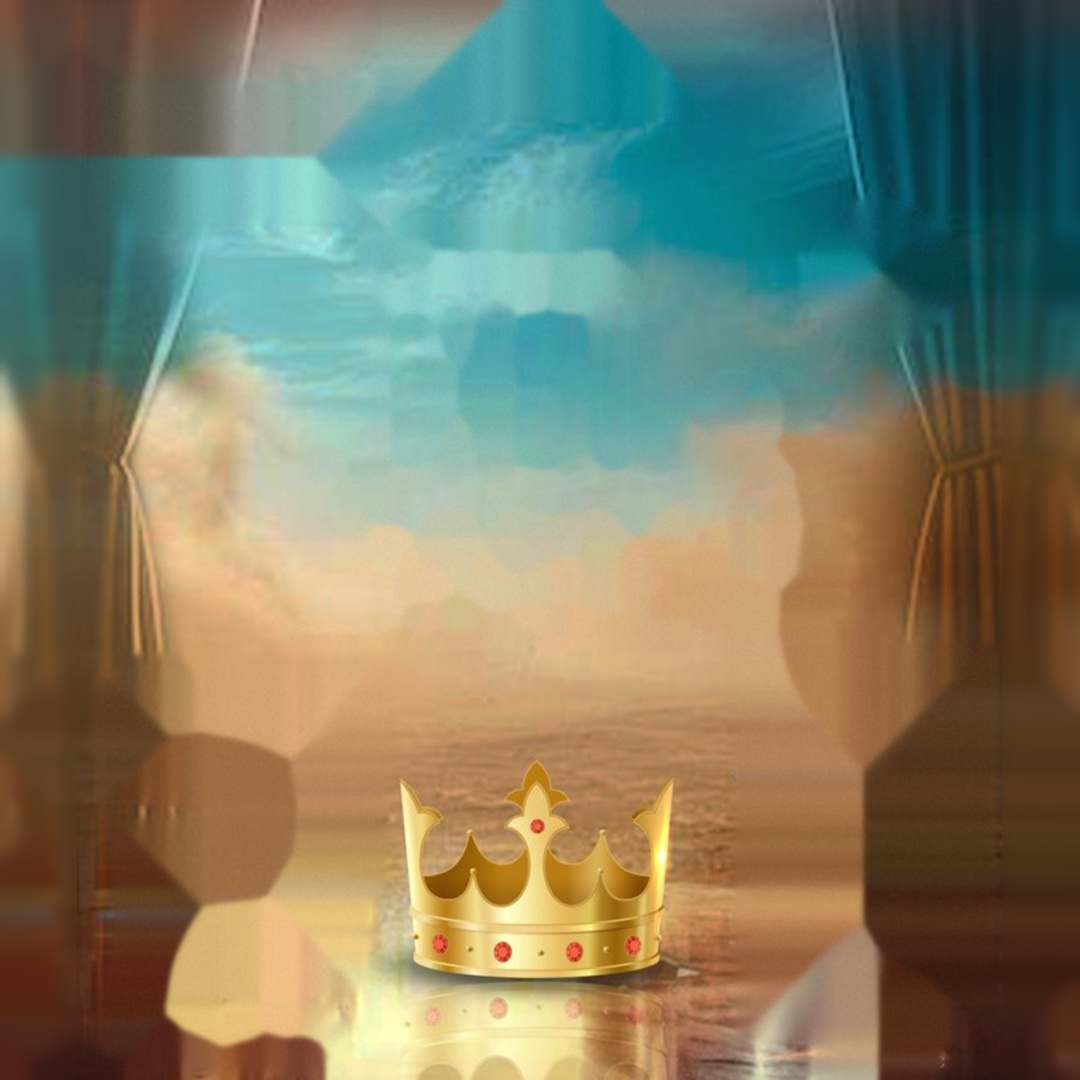
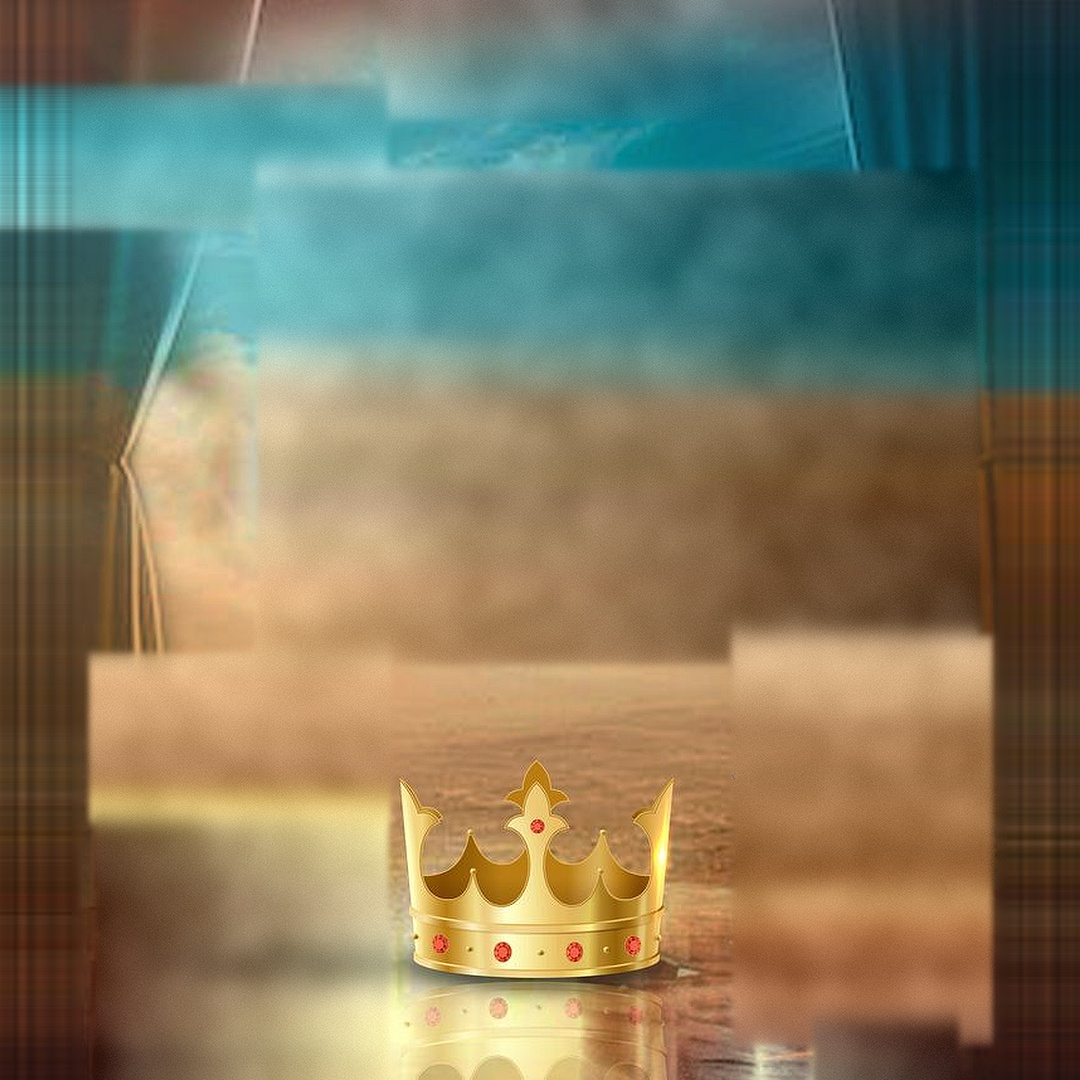
Flyer mini veillée: version fidèle au modèle (tous les éléments) avec décor 3D réaliste
Claude-Session: https://claude.ai/code/session_01K4EnEzfENRyC1oZX6gnyvx

diff --git a/flyer-mini-veillee/index.html b/flyer-mini-veillee/index.html
@@ -1,5 +1,4 @@
-<!doctype html>
-<html lang="fr"><head><meta charset="utf-8"><title>Flyer · Mini veillée · Trône et Gloire</title>
+<!doctype html><html lang="fr"><head><meta charset="utf-8"><title>Flyer · Mini veillée · Trône et Gloire</title>
 <style>
 @font-face{font-family:Bebas;src:url(fonts/bebas-neue-latin-400-normal.woff2)}
 @font-face{font-family:Poppins;font-weight:400;src:url(fonts/poppins-latin-400-normal.woff2)}
@@ -7,148 +6,92 @@
 @font-face{font-family:Poppins;font-weight:600;src:url(fonts/poppins-latin-600-normal.woff2)}
 @font-face{font-family:Poppins;font-weight:700;src:url(fonts/poppins-latin-700-normal.woff2)}
 @font-face{font-family:Poppins;font-weight:800;src:url(fonts/poppins-latin-800-normal.woff2)}
-@font-face{font-family:Montserrat;font-weight:600;src:url(fonts/montserrat-latin-600-normal.woff2)}
-@font-face{font-family:Montserrat;font-weight:700;src:url(fonts/montserrat-latin-700-normal.woff2)}
-:root{--or:#f26522;--or2:#ff8a3d}
+:root{--o1:#ff7d36;--o2:#f0501b;--or:#ee5a24}
 html,body{margin:0;background:#000}
-#f{position:relative;width:1080px;height:1080px;overflow:hidden;font-family:Poppins,sans-serif;color:#fff;background:#0b4f66}
-#bg{position:absolute;left:0;top:0}
-.abs{position:absolute;white-space:nowrap;line-height:1}
-.bebas{font-family:Bebas,Impact,sans-serif;font-weight:400}
-.ora{background:linear-gradient(180deg,var(--or2),var(--or) 55%,#e04e12);box-shadow:0 8px 20px rgba(60,20,0,.4)}
-.shadow{text-shadow:0 4px 18px rgba(0,40,60,.45)}
+#f{position:relative;width:1080px;height:1080px;overflow:hidden;font-family:Poppins,sans-serif;color:#fff;background:#0b4f66 url(assets/stage3d.png) 0 0/1080px 1080px no-repeat}
+#shade{position:absolute;inset:0;background:radial-gradient(ellipse 330px 360px at 545px 420px,rgba(3,62,86,.62) 0%,rgba(3,62,86,.5) 55%,rgba(3,62,86,0) 100%),radial-gradient(ellipse 80% 60% at 50% 48%,rgba(0,30,45,0) 55%,rgba(0,30,45,.35) 100%),linear-gradient(180deg,rgba(0,30,45,.28) 0%,rgba(0,0,0,0) 22%)}
+#m{position:absolute;left:77px;top:0;width:735px;height:858px;transform:scale(1.25874);transform-origin:0 0}
+.a{position:absolute;white-space:nowrap;line-height:1}
+.bebas{font-family:Bebas,Impact,sans-serif}
+.ora{background:linear-gradient(180deg,var(--o1),var(--o2));box-shadow:0 0 14px rgba(255,120,40,.55),0 4px 10px rgba(60,20,0,.35)}
+.ts{text-shadow:0 3px 12px rgba(0,45,65,.75)}
+.wh{background:#fff;box-shadow:0 4px 14px rgba(40,20,0,.35)}
 </style></head><body>
-<div id="f">
-  <canvas id="bg" width="1080" height="1080"></canvas>
+<div id="f"><div id="shade"></div>
+<div id="m">
 
-  <!-- logos -->
-  <div class="abs" style="left:0;width:1080px;top:20px;display:flex;justify-content:center;align-items:center;gap:30px">
-    <div style="position:relative;width:88px;height:90px"><img src="assets/zone_w_a.svg" style="position:absolute;left:0;top:0" width="88" height="90"><img src="assets/zone_w_b.svg" style="position:absolute;left:0;top:0" width="88" height="90"></div>
-    <div style="width:3px;height:84px;background:rgba(255,255,255,.75)"></div>
-    <img src="assets/milmo_white.svg" width="248" height="65">
-  </div>
+  <!-- en-tête : logo ZONE 242 | MILMO -->
+  <div class="a" style="left:259px;top:6px;width:54px;height:70px"><img src="assets/zone_w_a.svg" style="position:absolute;left:0;top:0" width="54" height="55"><img src="assets/zone_w_b.svg" style="position:absolute;left:0;top:0" width="54" height="55"></div>
+  <div class="a" style="left:326px;top:16px;width:2px;height:60px;background:rgba(255,255,255,.85)"></div>
+  <div class="a ts" style="left:341px;top:15px;font-weight:800;font-size:15.4px;line-height:17.2px;letter-spacing:.01em">MISSION<br>INTERNATIONALE<br>LUMIÈRE<br>DU MONDE</div>
 
   <!-- badge MINI VEILLÉE -->
-  <div class="abs" style="left:62px;top:128px;width:314px;height:108px;border:3px solid rgba(255,255,255,.92);border-radius:22px;background:rgba(6,70,88,.5);box-sizing:border-box">
-    <div class="abs ora bebas" style="left:12px;top:12px;width:96px;height:80px;border-radius:14px;font-size:60px;line-height:84px;text-align:center;letter-spacing:.02em">MINI</div>
-    <div class="abs" style="left:122px;top:34px;font-weight:800;font-size:42px;letter-spacing:.01em">VEILLÉE</div>
-  </div>
+  <div class="a" style="left:10px;top:80px;width:218px;height:86px;border:2px solid rgba(255,255,255,.92);border-radius:16px;box-sizing:border-box;background:rgba(5,70,90,.28)"></div>
+  <div class="a ora bebas" style="left:20px;top:90px;width:56px;height:66px;border-radius:10px;font-size:36px;line-height:68px;text-align:center;letter-spacing:.02em">MINI</div>
+  <div class="a" style="left:88px;top:90px;font-weight:700;font-size:15px;color:#ff8a45">Ce vendredi</div>
+  <div class="a" style="left:88px;top:109px;font-weight:800;font-size:25px;letter-spacing:.005em">VEILLÉE</div>
+  <div class="a" style="left:89px;top:138px;font-weight:700;font-size:13.5px;letter-spacing:.04em">À LA ZONE 242</div>
+
+  <!-- rond (comme J1) -->
+  <div class="a" style="left:581px;top:157px;width:104px;height:104px;border-radius:50%;background:#fff;box-shadow:0 6px 16px rgba(0,40,60,.35);text-align:center">
+    <div style="font-weight:700;font-size:13px;color:var(--or);margin-top:22px;letter-spacing:.1em">VEN.</div>
+    <div class="bebas" style="font-size:56px;color:var(--or);margin-top:2px">13</div></div>
 
   <!-- titre -->
-  <div class="abs bebas shadow" id="th" style="left:394px;top:240px;font-size:60px;letter-spacing:.07em">THÈME :</div>
-  <div class="abs bebas shadow" id="t1" style="left:386px;top:273px;font-size:270px;letter-spacing:.005em">TRÔNE</div>
-  <div class="abs bebas shadow" id="t2" style="left:398px;top:494px;font-size:64px;letter-spacing:.06em">ET</div>
-  <div class="abs bebas" id="t3" style="left:394px;top:538px;font-size:178px;letter-spacing:.01em;background:linear-gradient(180deg,#fff3b8 0%,#ffd45a 45%,#f2a31a 100%);-webkit-background-clip:text;background-clip:text;color:transparent;filter:drop-shadow(0 5px 14px rgba(70,30,0,.45))">GLOIRE</div>
+  <div class="a bebas ts" style="left:237px;top:176px;font-size:60px;letter-spacing:.06em">THÈME :</div>
+  <div class="a bebas ts" id="t1" style="left:232px;top:218px;font-size:132px;-webkit-text-stroke:2.4px #fff;letter-spacing:.005em">TRÔNE</div>
+  <div class="a bebas ts" id="t3" style="left:226px;top:358px;font-size:117px;letter-spacing:.01em">GLOIRE</div>
+  <div class="a bebas ts" style="left:240px;top:327px;font-size:36px;letter-spacing:.1em">ET</div>
+  <svg class="a" style="left:486px;top:318px;filter:drop-shadow(0 4px 10px rgba(0,50,70,.6));transform:rotate(-8deg)" width="122" height="104" viewBox="0 0 100 84"><path d="M6 66 L0 14 Q10 30 24 40 Q36 24 50 4 Q64 24 76 40 Q90 30 100 14 L94 66 Z" fill="#fff"/><rect x="5" y="68" width="90" height="13" rx="5" fill="#fff"/><circle cx="50" cy="52" r="5" fill="#ee5a24"/><circle cx="25" cy="52" r="3.6" fill="#ee5a24"/><circle cx="75" cy="52" r="3.6" fill="#ee5a24"/></svg>
 
-  <!-- date / heure (boîte blanche) -->
-  <div class="abs" style="left:92px;top:662px;width:292px;height:150px;border-radius:26px;background:#fff;box-shadow:0 10px 26px rgba(40,20,0,.35)">
-    <div class="abs" style="left:20px;top:22px;font-weight:700;font-size:29px;color:var(--or)">Vendredi</div>
-    <div class="abs" style="left:20px;top:62px;font-weight:800;font-size:70px;color:var(--or);letter-spacing:-.02em">13</div>
-    <div class="abs" style="left:96px;top:74px;font-weight:700;font-size:22px;color:var(--or)">NOV.</div>
-    <div class="abs" style="left:96px;top:100px;font-weight:600;font-size:19px;color:#c9531a">2026</div>
-    <div class="abs" style="left:166px;top:22px;width:2px;height:106px;background:var(--or)"></div>
-    <svg class="abs" style="left:206px;top:30px" width="30" height="30" viewBox="0 0 26 26"><circle cx="13" cy="13" r="10.5" fill="none" stroke="#f26522" stroke-width="3"/><path d="M13 7v6.5l4.5 2.5" stroke="#f26522" stroke-width="3" fill="none" stroke-linecap="round"/></svg>
-    <div class="abs" style="left:176px;top:76px;font-weight:800;font-size:35px;color:var(--or);letter-spacing:-.01em">19H45</div>
-  </div>
+  <!-- verset -->
+  <div class="a wh" style="left:262px;top:469px;width:184px;height:21px;border-radius:5px;text-align:center;font-weight:700;font-size:11.5px;line-height:21px;color:var(--or);letter-spacing:.02em">HÉBREUX 4 : 16</div>
+  <div class="a ts" style="left:0;width:735px;text-align:center;top:495px;font-weight:400;font-size:14.2px;padding-left:20px;box-sizing:border-box">approchons-nous avec assurance du trône de la grâce</div>
 
-  <!-- blocs orange : la Zone / lieu -->
-  <div class="abs ora" style="left:110px;top:828px;width:116px;height:136px;border-radius:14px;text-align:center">
-    <div class="bebas" style="font-size:54px;margin-top:14px;letter-spacing:.04em">ZONE</div>
-    <div class="bebas" style="font-size:96px;margin-top:-2px;letter-spacing:.02em">242</div>
-  </div>
-  <div class="abs" style="left:240px;top:826px;font-weight:700;font-size:26px;letter-spacing:.08em;border-bottom:3px solid #fff;padding-bottom:4px">LIEU</div>
-  <div class="abs ora" style="left:240px;top:874px;width:146px;height:90px;border-radius:14px;text-align:center">
-    <div class="bebas" style="font-size:46px;line-height:90px;letter-spacing:.03em">SIKÈCODJI</div>
-  </div>
-  <div class="abs" style="left:104px;top:976px;width:282px;height:40px;border-radius:12px;background:#fff;box-shadow:0 6px 16px rgba(40,20,0,.35);text-align:center">
-    <div style="font-weight:700;font-size:19px;color:var(--or);line-height:40px">Rue de Golf-FM, Cotonou</div>
-  </div>
+  <!-- boîte date / heure -->
+  <div class="a wh" style="left:20px;top:531px;width:216px;height:108px;border-radius:14px"></div>
+  <div class="a" style="left:31px;top:543px;font-weight:700;font-size:21.5px;color:var(--or)">Vendredi</div>
+  <div class="a" style="left:31px;top:573px;font-weight:800;font-size:46px;color:var(--or);letter-spacing:-.03em">13</div>
+  <div class="a" style="left:88px;top:580px;font-weight:700;font-size:17px;color:var(--or)">nov.</div>
+  <div class="a" style="left:88px;top:600px;font-weight:600;font-size:12px;color:#c9531a">2026</div>
+  <div class="a" style="left:142px;top:545px;width:2px;height:82px;background:var(--or)"></div>
+  <svg class="a" style="left:158px;top:546px" width="19" height="19" viewBox="0 0 26 26"><circle cx="13" cy="13" r="10.5" fill="none" stroke="#ee5a24" stroke-width="3.2"/><path d="M13 7v6.5l4.5 2.5" stroke="#ee5a24" stroke-width="3.2" fill="none" stroke-linecap="round"/></svg>
+  <div class="a" style="left:152px;top:573px;font-weight:800;font-size:24px;color:var(--or);letter-spacing:-.01em">19H45</div>
+  <div class="a" style="left:154px;top:604px;font-weight:600;font-size:9.5px;color:#c9531a;letter-spacing:.06em">À PARTIR DE</div>
 
-  <!-- couronne + reflet -->
-  <svg class="abs" style="left:398px;top:772px" width="276" height="260" viewBox="0 0 280 262">
-    <defs>
-      <linearGradient id="g" x1="0" x2="1" y1="0" y2="0"><stop offset="0" stop-color="#a86d10"/><stop offset=".16" stop-color="#f1cf5e"/><stop offset=".4" stop-color="#fff2b0"/><stop offset=".6" stop-color="#e0a82a"/><stop offset=".85" stop-color="#f3d36a"/><stop offset="1" stop-color="#9c620c"/></linearGradient>
-      <linearGradient id="gv" x1="0" x2="0" y1="0" y2="1"><stop offset="0" stop-color="#fff" stop-opacity=".32"/><stop offset="1" stop-color="#3a1d00" stop-opacity=".28"/></linearGradient>
-      <radialGradient id="ruby"><stop offset="0" stop-color="#ff8c8c"/><stop offset=".55" stop-color="#d4141e"/><stop offset="1" stop-color="#790510"/></radialGradient>
-      <linearGradient id="fade" gradientUnits="userSpaceOnUse" x1="0" x2="0" y1="172" y2="262"><stop offset="0" stop-color="#fff" stop-opacity=".5"/><stop offset="1" stop-color="#fff" stop-opacity="0"/></linearGradient>
-      <mask id="m" maskUnits="userSpaceOnUse" x="0" y="172" width="280" height="90"><rect x="0" y="172" width="280" height="90" fill="url(#fade)"/></mask>
-      <g id="crown">
-        <path d="M14 152 L6 16 C20 80 40 116 72 116 C104 116 118 76 128 40 L140 2 L152 40 C162 76 176 116 208 116 C240 116 260 80 274 16 L266 152 Z" fill="url(#g)"/>
-        <path d="M14 152 L6 16 C20 80 40 116 72 116 C104 116 118 76 128 40 L140 2 L152 40 C162 76 176 116 208 116 C240 116 260 80 274 16 L266 152 Z" fill="url(#gv)"/>
-        <path d="M40 112 C52 124 90 124 106 100 M240 112 C228 124 190 124 174 100" stroke="#8a5a0e" stroke-width="3" fill="none" opacity=".55"/>
-        <circle cx="6" cy="12" r="7" fill="url(#g)"/><circle cx="274" cy="12" r="7" fill="url(#g)"/>
-        <circle cx="140" cy="8" r="8" fill="url(#g)"/><path d="M140 -6v10M135 -1h10" stroke="#fff3b0" stroke-width="3" stroke-linecap="round"/>
-        <rect x="8" y="130" width="264" height="42" rx="10" fill="url(#g)"/><rect x="8" y="130" width="264" height="42" rx="10" fill="url(#gv)"/>
-        <rect x="8" y="130" width="264" height="5" rx="2.5" fill="#fff8d0" opacity=".75"/><rect x="8" y="166" width="264" height="5" rx="2.5" fill="#7a4a08" opacity=".35"/>
-        <circle cx="140" cy="44" r="7" fill="url(#ruby)"/>
-        <circle cx="42" cy="151" r="8" fill="url(#ruby)"/><circle cx="91" cy="151" r="8" fill="url(#ruby)"/><circle cx="140" cy="151" r="8" fill="url(#ruby)"/><circle cx="189" cy="151" r="8" fill="url(#ruby)"/><circle cx="238" cy="151" r="8" fill="url(#ruby)"/>
-      </g>
-    </defs>
-    <g mask="url(#m)"><use href="#crown" transform="translate(0,344) scale(1,-1)"/></g>
-    <use href="#crown"/>
-  </svg>
+  <!-- bloc orange date -->
+  <div class="a ora" style="left:32px;top:655px;width:80px;height:128px;border-radius:7px;text-align:center">
+    <div style="font-weight:700;font-size:12px;margin-top:11px;letter-spacing:.14em">VEN.</div>
+    <div class="bebas" style="font-size:96px;margin-top:14px;line-height:.9">13</div>
+    </div>
+  <div class="a ts" style="left:32px;top:790px;width:80px;text-align:center;font-weight:700;font-size:13px;letter-spacing:.01em">NOVEMBRE</div>
+
+  <!-- lieu -->
+  <div class="a ts" style="left:124px;top:650px;font-weight:700;font-size:21px;letter-spacing:.03em">LIEU</div>
+  <div class="a" style="left:124px;top:676px;width:50px;height:2px;background:rgba(255,255,255,.9)"></div>
+  <div class="a ora" style="left:124px;top:683px;width:104px;height:100px;border-radius:7px;text-align:center">
+    <div style="font-weight:600;font-size:15px;margin-top:17px;letter-spacing:.04em">ZONE 242</div>
+    <div style="font-weight:600;font-size:15px;margin-top:11px;letter-spacing:.02em">SIKÈCODJI</div>
+    <div style="font-weight:600;font-size:15px;margin-top:11px;letter-spacing:.04em">COTONOU</div></div>
+
+  <!-- adresse -->
+  <div class="a wh" style="left:28px;top:815px;width:190px;height:33px;border-radius:9px;text-align:center;font-weight:700;font-size:11.4px;line-height:14px;color:var(--or);padding-top:3px;box-sizing:border-box">Rue de Golf-FM,<br>Sikècodji · Cotonou</div>
 
   <!-- photo de l'apôtre -->
-  <div class="abs" id="ph" style="left:776px;top:648px;width:196px;height:292px;border-radius:26px;background:url(assets/amos_tall.jpg) center top/cover;box-shadow:0 0 0 4px rgba(255,255,255,.8),0 14px 34px rgba(30,15,0,.5)"></div>
-  <div class="abs ora" style="left:776px;top:952px;width:196px;height:62px;border-radius:20px;text-align:center">
-    <div style="font-weight:600;font-size:15px;letter-spacing:.14em;margin-top:9px">APÔTRE</div>
-    <div style="font-weight:800;font-size:25px;margin-top:3px;letter-spacing:.01em">AMOS ELITE</div>
-  </div>
+  <div class="a" style="left:560px;top:520px;width:146px;height:250px;border-radius:15px;background:url(assets/amos_tall.jpg) center top/cover;box-shadow:0 0 0 2.4px rgba(255,255,255,.85),0 8px 22px rgba(30,15,0,.5)"></div>
+  <div class="a ts" style="left:560px;width:146px;top:772px;text-align:center;font-weight:700;font-size:13.5px;letter-spacing:.12em">APÔTRE</div>
+  <div class="a ora" style="left:560px;top:790px;width:146px;height:23px;border-radius:5px;text-align:center;font-weight:700;font-size:13px;line-height:23px;letter-spacing:.01em">Amos <span style="font-weight:800">ELITE</span></div>
 
-  <!-- pied de page de la Zone -->
-  <div class="abs" style="left:0;top:1022px;width:1080px;height:58px;background:linear-gradient(180deg,rgba(40,20,5,.82),rgba(25,10,0,.95))"></div>
-  <div class="abs" style="left:0;width:1080px;top:1029px;text-align:center;font-family:Montserrat,sans-serif;font-weight:700;font-size:16px;letter-spacing:.08em">ZONE 242 · SIKÈCODJI · RUE DE GOLF-FM, COTONOU</div>
-  <div class="abs" style="left:0;width:1080px;top:1052px;display:flex;justify-content:center;align-items:center;gap:16px;font-family:Montserrat,sans-serif;font-weight:700;font-size:16px">
-    <span style="display:inline-flex;align-items:center;gap:7px"><svg width="15" height="15" viewBox="0 0 24 24"><path d="M6.6 10.8a15.1 15.1 0 0 0 6.6 6.6l2.2-2.2a1 1 0 0 1 1-.25c1.1.35 2.3.55 3.6.55a1 1 0 0 1 1 1V20a1 1 0 0 1-1 1C10.6 21 3 13.4 3 4a1 1 0 0 1 1-1h3.5a1 1 0 0 1 1 1c0 1.3.2 2.5.55 3.6a1 1 0 0 1-.25 1z" fill="#ffb36b"/></svg>01 41 62 77 77</span>
-    <span style="opacity:.5">|</span>
-    <svg width="13" height="15" viewBox="0 0 12 14"><path d="M8 0v9.2a3 3 0 1 1-3-3v2a1 1 0 1 0 1 1V0z M8 0c.2 1.6 1.4 2.8 3.2 3v2c-1.2 0-2.2-.4-3.2-1z" fill="#fff"/></svg>
-    <svg width="19" height="14" viewBox="0 0 15 11"><rect width="15" height="11" rx="3" fill="#fff"/><path d="M6 3l4 2.5L6 8z" fill="#3a1c00"/></svg>
-    <svg width="15" height="15" viewBox="0 0 12 12"><rect x="1" y="1" width="10" height="10" rx="3" fill="none" stroke="#fff" stroke-width="1.5"/><circle cx="6" cy="6" r="2.2" fill="none" stroke="#fff" stroke-width="1.5"/></svg>
-    <svg width="9" height="16" viewBox="0 0 8 14"><path d="M5.2 14V7.7h2.1l.3-2.5H5.2V3.7c0-.7.2-1.2 1.2-1.2H7.7V.3C7.5.3 6.7.2 5.8.2 3.9.2 2.7 1.3 2.7 3.4v1.8H.6v2.5h2.1V14z" fill="#fff"/></svg>
-    <span>ZONE 242</span>
+  <!-- pied de page (comme « Mission M.E.R.A.C ») : réseaux + Zone 242 + téléphone -->
+  <div class="a" style="left:560px;width:146px;top:822px;display:flex;justify-content:center;align-items:center;gap:7px">
+    <svg width="11" height="13" viewBox="0 0 12 14"><path d="M8 0v9.2a3 3 0 1 1-3-3v2a1 1 0 1 0 1 1V0z M8 0c.2 1.6 1.4 2.8 3.2 3v2c-1.2 0-2.2-.4-3.2-1z" fill="#fff"/></svg>
+    <svg width="13" height="13" viewBox="0 0 12 12"><circle cx="6" cy="6" r="6" fill="#fff"/><path d="M6.7 10.5V6.6h1.2l.2-1.4H6.7v-.8c0-.4.1-.7.7-.7h.8V2.5C8 2.5 7.600 2.400 7.100 2.400 6 2.400 5.300 3 5.300 4.200v1H4.100v1.400h1.200v3.900z" fill="#0b4f66"/></svg>
+    <svg width="15" height="11" viewBox="0 0 15 11"><rect width="15" height="11" rx="3" fill="#fff"/><path d="M6 3l4 2.5L6 8z" fill="#0b4f66"/></svg>
+    <svg width="12" height="12" viewBox="0 0 12 12"><rect x="1" y="1" width="10" height="10" rx="3" fill="none" stroke="#fff" stroke-width="1.5"/><circle cx="6" cy="6" r="2.2" fill="none" stroke="#fff" stroke-width="1.5"/></svg>
   </div>
-</div>
+  <div class="a ts" style="left:560px;width:146px;top:838px;text-align:center;font-weight:700;font-size:11.5px;letter-spacing:.04em">ZONE 242 · 01 41 62 77 77</div>
+</div></div>
 <script>
-// ---------- procedural stage: sky, curtains, golden floor ----------
-const cv=document.getElementById('bg'),c=cv.getContext('2d');
-const rnd=(()=>{let s=9;return()=>(s=(s*16807)%2147483647)/2147483647})();
-function curtain(flip){
-  c.save(); if(flip){c.translate(1080,0);c.scale(-1,1);}
-  const path=new Path2D(); path.moveTo(-30,-30);path.lineTo(300,-30);path.bezierCurveTo(272,110,214,250,200,380);path.bezierCurveTo(190,470,150,560,142,720);path.lineTo(-30,720);path.closePath();
-  c.fillStyle='#0d6677';c.fill(path);c.save();c.clip(path);
-  for(let x=-30;x<310;x+=5){const a=Math.sin(x*.075)+.6*Math.sin(x*.19+1.3);
-    c.fillStyle=`rgba(0,25,40,${Math.max(0,a)*.17})`;c.fillRect(x,-30,5,780);
-    c.fillStyle=`rgba(190,245,240,${Math.max(0,-a)*.10})`;c.fillRect(x,-30,5,780);}
-  let g=c.createLinearGradient(0,330,0,640);g.addColorStop(0,'rgba(166,106,44,0)');g.addColorStop(1,'rgba(168,108,46,.9)');c.fillStyle=g;c.fillRect(-30,330,360,420);
-  g=c.createLinearGradient(0,-30,0,200);g.addColorStop(0,'rgba(0,20,35,.45)');g.addColorStop(1,'rgba(0,20,35,0)');c.fillStyle=g;c.fillRect(-30,-30,360,230);
-  c.restore();
-  c.save();c.strokeStyle='rgba(215,250,245,.55)';c.lineWidth=3;c.shadowColor='rgba(255,255,255,.6)';c.shadowBlur=8;c.beginPath();c.moveTo(300,-30);c.bezierCurveTo(272,110,214,250,200,380);c.bezierCurveTo(190,470,150,560,142,720);c.stroke();c.restore();
-  // tie-back cord
-  c.strokeStyle='#d9a24a';c.lineWidth=5;c.beginPath();c.moveTo(150,520);c.quadraticCurveTo(175,560,160,640);c.stroke();
-  c.fillStyle='#e8b95a';c.beginPath();c.ellipse(158,650,9,18,0,0,7);c.fill();
-  c.restore();
-}
-function stage(){
-  let g=c.createLinearGradient(0,0,0,700);
-  g.addColorStop(0,'#0a4a62');g.addColorStop(.22,'#17808f');g.addColorStop(.42,'#4cb0b4');g.addColorStop(.58,'#b7d3c3');g.addColorStop(.7,'#e6cf9f');g.addColorStop(1,'#d9b27a');
-  c.fillStyle=g;c.fillRect(0,0,1080,700);
-  // clouds
-  c.filter='blur(34px)';
-  for(let i=0;i<22;i++){const x=200+rnd()*680,y=210+rnd()*400,rx=70+rnd()*150,ry=26+rnd()*50;c.fillStyle=`rgba(255,244,222,${.1+rnd()*.17})`;c.beginPath();c.ellipse(x,y,rx,ry,0,0,7);c.fill();}
-  c.filter='none';
-  g=c.createRadialGradient(540,650,0,540,650,420);g.addColorStop(0,'rgba(255,238,205,.75)');g.addColorStop(1,'rgba(255,238,205,0)');c.fillStyle=g;c.fillRect(0,230,1080,520);
-  // golden floor
-  g=c.createLinearGradient(0,680,0,1080);g.addColorStop(0,'#d9b27a');g.addColorStop(.3,'#c08c4c');g.addColorStop(.7,'#8d5a26');g.addColorStop(1,'#4a2a0d');c.fillStyle=g;c.fillRect(0,680,1080,400);
-  for(let y=700;y<1080;y+=7){c.fillStyle=`rgba(255,225,170,${.03+rnd()*.06})`;c.fillRect(120+rnd()*100,y,500+rnd()*400,1.4);}
-  g=c.createRadialGradient(540,985,0,540,985,330);g.addColorStop(0,'rgba(255,236,190,.65)');g.addColorStop(1,'rgba(255,236,190,0)');c.fillStyle=g;c.fillRect(0,700,1080,380);
-  curtain(false);curtain(true);
-  g=c.createRadialGradient(540,540,420,540,540,820);g.addColorStop(0,'rgba(0,25,40,0)');g.addColorStop(1,'rgba(0,25,40,.38)');c.fillStyle=g;c.fillRect(0,0,1080,1080);
-  const id=c.getImageData(0,0,1080,1080),d=id.data;for(let i=0;i<d.length;i+=4){const n=(rnd()-.5)*9;d[i]+=n;d[i+1]+=n;d[i+2]+=n;}c.putImageData(id,0,0);
-}
-stage();
-window.ready=(async()=>{
-  await Promise.all(['100px Bebas','500 20px Poppins','700 20px Poppins','800 20px Poppins','700 20px Montserrat'].map(f=>document.fonts.load(f)));await document.fonts.ready;
-  await Promise.all([...document.images].map(i=>i.decode().catch(()=>{})));
-  await new Promise(r=>{const i=new Image();i.onload=r;i.onerror=r;i.src='assets/amos_tall.jpg'});
-})();
+window.ready=(async()=>{await Promise.all(['100px Bebas','400 20px Poppins','500 20px Poppins','600 20px Poppins','700 20px Poppins','800 20px Poppins'].map(f=>document.fonts.load(f)));await document.fonts.ready;
+  await Promise.all([...document.images].map(i=>i.decode().catch(()=>{})));await new Promise(r=>{const i=new Image();i.onload=r;i.onerror=r;i.src='assets/amos_tall.jpg'});})();
 </script></body></html>

diff --git a/flyer-mini-veillee/stage3d.html b/flyer-mini-veillee/stage3d.html
@@ -1,0 +1,107 @@
+<!doctype html><html><head><meta charset="utf-8"><title>Stage 3D</title>
+<style>html,body{margin:0;background:#000}canvas{display:block}</style>
+<script type="importmap">{"imports":{"three":"./node_modules/three/build/three.module.js","three/addons/":"./node_modules/three/examples/jsm/"}}</script></head>
+<body><script type="module">
+import * as THREE from 'three';
+import { RoomEnvironment } from 'three/addons/environments/RoomEnvironment.js';
+const S = 1080;
+const renderer = new THREE.WebGLRenderer({ antialias: true, preserveDrawingBuffer: true });
+renderer.setSize(S, S); renderer.setPixelRatio(1);
+renderer.toneMapping = THREE.ACESFilmicToneMapping; renderer.toneMappingExposure = 1.05;
+renderer.outputColorSpace = THREE.SRGBColorSpace;
+document.body.appendChild(renderer.domElement);
+const scene = new THREE.Scene();
+const pm = new THREE.PMREMGenerator(renderer);
+scene.environment = pm.fromScene(new RoomEnvironment(), 0.03).texture; scene.environmentIntensity = 0.55;
+scene.fog = new THREE.Fog(0xe0c08f, 22, 80);
+const cam = new THREE.PerspectiveCamera(40, 1, 0.1, 200); cam.position.set(0, 1.4, 10); cam.lookAt(0, 2.35, 0);
+
+const tl = new THREE.TextureLoader();
+const load = u => new Promise(r => tl.load(u, t => { t.colorSpace = THREE.SRGBColorSpace; t.anisotropy = 8; r(t); }));
+const sky = await load('assets/sky.jpg');
+const skyMesh = new THREE.Mesh(new THREE.PlaneGeometry(190, 42), new THREE.MeshBasicMaterial({ map: sky, fog: false, toneMapped: false }));
+skyMesh.position.set(0, 21, -60); scene.add(skyMesh);
+
+// ---- lights
+scene.add(new THREE.AmbientLight(0xbfe6ee, 0.35));
+const key = new THREE.DirectionalLight(0xffe6b8, 3.6); key.position.set(2, 6, 9); scene.add(key);
+const back = new THREE.PointLight(0xffc27a, 380, 60, 2); back.position.set(0, 3.2, -14); scene.add(back);
+const rimL = new THREE.PointLight(0x7fe6ff, 60, 30, 2); rimL.position.set(-7, 6, 4); scene.add(rimL);
+const rimR = new THREE.PointLight(0x7fe6ff, 60, 30, 2); rimR.position.set(7, 6, 4); scene.add(rimR);
+
+const fill = new THREE.PointLight(0xffffff, 90, 40, 2); fill.position.set(3.5, 2.5, 8); scene.add(fill);
+const fill2 = new THREE.PointLight(0xffd9a0, 60, 40, 2); fill2.position.set(-4, 3, 7); scene.add(fill2);
+// ---- floor: glossy sand, partly transparent so the crown reflection shows through
+const fc = document.createElement('canvas'); fc.width = 1024; fc.height = 1024; const f = fc.getContext('2d');
+let seed = 5; const rnd = () => (seed = (seed * 16807) % 2147483647) / 2147483647;
+let g = f.createLinearGradient(0, 0, 0, 1024); g.addColorStop(0, '#caa06a'); g.addColorStop(1, '#8c5a26'); f.fillStyle = g; f.fillRect(0, 0, 1024, 1024);
+for (let i = 0; i < 900; i++) { f.fillStyle = `rgba(${rnd() < .5 ? '255,226,170' : '120,70,25'},${.02 + rnd() * .035})`; f.fillRect(rnd() * 1024, rnd() * 1024, 20 + rnd() * 90, 1 + rnd() * 1.6); }
+const floorTex = new THREE.CanvasTexture(fc); floorTex.colorSpace = THREE.SRGBColorSpace; floorTex.wrapS = floorTex.wrapT = THREE.RepeatWrapping; floorTex.repeat.set(3, 5); floorTex.anisotropy = 8;
+const floor = new THREE.Mesh(new THREE.PlaneGeometry(120, 120), new THREE.MeshStandardMaterial({ map: floorTex, roughness: .32, metalness: .15, transparent: true, opacity: .8, envMapIntensity: 1.3 }));
+floor.rotation.x = -Math.PI / 2; floor.position.set(0, 0, -30); floor.renderOrder = 2; scene.add(floor);
+const under = new THREE.Mesh(new THREE.PlaneGeometry(120, 120), new THREE.MeshBasicMaterial({ color: 0x8a5a28 }));
+under.rotation.x = -Math.PI / 2; under.position.set(0, -2.5, -30); scene.add(under);
+
+// ---- velvet curtains (pleats, gather towards the sides, teal -> gold below the tie-back)
+function smooth(a, b, x) { const t = Math.min(1, Math.max(0, (x - a) / (b - a))); return t * t * (3 - 2 * t); }
+function curtain(sign) {
+  const NX = 260, NY = 90, TOP = 11, GW = 8;
+  const geo = new THREE.PlaneGeometry(1, 1, NX, NY), p = geo.attributes.position, col = new Float32Array(p.count * 3);
+  const teal = new THREE.Color(0x0b6a7c), tealD = new THREE.Color(0x06404f), gold = new THREE.Color(0xb07c33), goldD = new THREE.Color(0x6a4318);
+  for (let i = 0; i < p.count; i++) {
+    const u = p.getX(i) + .5, v = p.getY(i) + .5, y = v * TOP;
+    const xin = 1.15 + 2.0 * smooth(9.5, 3.3, y) - 0.3 * smooth(2.6, 0, y);
+    const x = xin + u * GW;
+    const ph = u * 46 + Math.sin(y * .55) * .9 + Math.sin(y * 1.7 + u * 6) * .25;
+    const z = -1.2 + 0.2 * Math.sin(ph) + 0.07 * Math.sin(ph * 2.7 + 1) + 0.18 * smooth(3.4, 8, y) * Math.sin(u * 5 + y * .3) - 0.5 * u;
+    p.setXYZ(i, sign * x, y, z);
+    const gl = smooth(3.8, 2.4, y), shade = .5 + .5 * Math.sin(ph);
+    const c = teal.clone().lerp(tealD, 1 - shade * .8).lerp(gold.clone().lerp(goldD, 1 - shade * .8), gl);
+    c.multiplyScalar(0.55 + .45 * Math.min(1, .55 + y / 8)); col[i * 3] = c.r; col[i * 3 + 1] = c.g; col[i * 3 + 2] = c.b;
+  }
+  geo.setAttribute('color', new THREE.BufferAttribute(col, 3)); geo.computeVertexNormals();
+  const m = new THREE.MeshPhysicalMaterial({ vertexColors: true, roughness: .7, metalness: 0, sheen: .55, sheenColor: new THREE.Color(0x7fd6e0), sheenRoughness: .55, side: THREE.DoubleSide, envMapIntensity: .6 });
+  const mesh = new THREE.Mesh(geo, m); scene.add(mesh);
+}
+curtain(-1); curtain(1);
+
+// ---- golden crown (parametric body with 5 scalloped fleur points + band + rubies), mirrored under the glossy floor
+const gold = new THREE.MeshStandardMaterial({ color: 0xffc23a, metalness: 1, roughness: .2, envMapIntensity: 2.2 });
+const goldDark = new THREE.MeshStandardMaterial({ color: 0xd69a1c, metalness: 1, roughness: .32, envMapIntensity: 1.8 });
+const ruby = new THREE.MeshPhysicalMaterial({ color: 0xc80f1c, metalness: 0, roughness: .08, clearcoat: 1, transmission: 0, emissive: 0x4a0006, emissiveIntensity: .5, envMapIntensity: 2 });
+function crown() {
+  const grp = new THREE.Group(); const R = 1, N = 5;
+  const H = th => { const s = Math.pow(.5 + .5 * Math.cos(N * th), 2.4); return .56 + .78 * s; };
+  const SEG = 360, V = 18; const pos = [], idx = [];
+  for (let j = 0; j <= SEG; j++) { const th = j / SEG * Math.PI * 2;
+    for (let k = 0; k <= V; k++) { const v = k / V, r = R * (1 + .09 * v) - .015 * Math.sin(v * Math.PI);
+      pos.push(Math.sin(th) * r, .26 + v * (H(th) - .26), Math.cos(th) * r); } }
+  for (let j = 0; j < SEG; j++) for (let k = 0; k < V; k++) { const a = j * (V + 1) + k, b = a + V + 1; idx.push(a, b, a + 1, b, b + 1, a + 1); }
+  const bg = new THREE.BufferGeometry(); bg.setAttribute('position', new THREE.Float32BufferAttribute(pos, 3)); bg.setIndex(idx); bg.computeVertexNormals();
+  const body = new THREE.Mesh(bg, new THREE.MeshStandardMaterial({ color: 0xffd04e, metalness: 1, roughness: .2, envMapIntensity: 3, side: THREE.DoubleSide })); grp.add(body);
+  // band
+  const band = new THREE.Mesh(new THREE.CylinderGeometry(R * 1.015, R * .985, .3, 96, 1, true), new THREE.MeshStandardMaterial({ color: 0xffc23a, metalness: 1, roughness: .18, envMapIntensity: 2.4, side: THREE.DoubleSide })); band.position.y = .15; grp.add(band);
+  for (const y of [0, .3]) { const t = new THREE.Mesh(new THREE.TorusGeometry(R * 1.0, .035, 14, 120), goldDark); t.rotation.x = Math.PI / 2; t.position.y = y; grp.add(t); }
+  // top rim along the scalloped edge
+  const rimPts = []; for (let j = 0; j <= 400; j++) { const th = j / 400 * Math.PI * 2; rimPts.push(new THREE.Vector3(Math.sin(th) * R * 1.09, H(th), Math.cos(th) * R * 1.09)); }
+  grp.add(new THREE.Mesh(new THREE.TubeGeometry(new THREE.CatmullRomCurve3(rimPts, true), 800, .03, 8, true), goldDark));
+  // fleur balls + rubies on the points
+  for (let i = 0; i < N; i++) { const th = i * Math.PI * 2 / N; const hx = Math.sin(th) * R * 1.09, hz = Math.cos(th) * R * 1.09;
+    const ball = new THREE.Mesh(new THREE.SphereGeometry(.085, 24, 16), gold); ball.position.set(hx, H(th) + .07, hz); grp.add(ball);
+    const gem = new THREE.Mesh(new THREE.SphereGeometry(.05, 20, 14), ruby); gem.position.set(Math.sin(th) * R * 1.1, H(th) - .22, Math.cos(th) * R * 1.1); grp.add(gem); }
+  // rubies + studs on the band
+  for (let i = 0; i < 10; i++) { const th = (i + .5) / 10 * Math.PI * 2; const g2 = new THREE.Mesh(new THREE.SphereGeometry(.058, 22, 16), ruby); g2.scale.set(1, 1, .6); g2.position.set(Math.sin(th) * R * 1.03, .15, Math.cos(th) * R * 1.03); grp.add(g2);
+    const st = new THREE.Mesh(new THREE.SphereGeometry(.022, 10, 8), gold); st.position.set(Math.sin(th + .16) * R * 1.02, .27, Math.cos(th + .16) * R * 1.02); grp.add(st); }
+  return grp;
+}
+const c1 = crown(); c1.scale.setScalar(.7); c1.position.set(0, 0.01, 2.6); c1.rotation.set(.06, -Math.PI / 5 * 0, 0); scene.add(c1);
+const c2 = crown(); c2.scale.set(.7, -.7, .7); c2.position.set(0, -0.01, 2.6); c2.rotation.set(-.06, 0, 0); scene.add(c2);
+// glow on the floor around the crown
+const gc = document.createElement('canvas'); gc.width = gc.height = 256; const gx = gc.getContext('2d'); const rg = gx.createRadialGradient(128, 128, 0, 128, 128, 128);
+rg.addColorStop(0, 'rgba(255,236,190,.95)'); rg.addColorStop(.35, 'rgba(255,214,140,.4)'); rg.addColorStop(1, 'rgba(255,200,120,0)'); gx.fillStyle = rg; gx.fillRect(0, 0, 256, 256);
+const glow = new THREE.Mesh(new THREE.PlaneGeometry(9, 5), new THREE.MeshBasicMaterial({ map: new THREE.CanvasTexture(gc), transparent: true, blending: THREE.AdditiveBlending, depthWrite: false, fog: false }));
+glow.rotation.x = -Math.PI / 2; glow.position.set(0, .03, 2.4); glow.renderOrder = 3; scene.add(glow);
+
+renderer.render(scene, cam);
+window.ready = true;
+</script></body></html>
